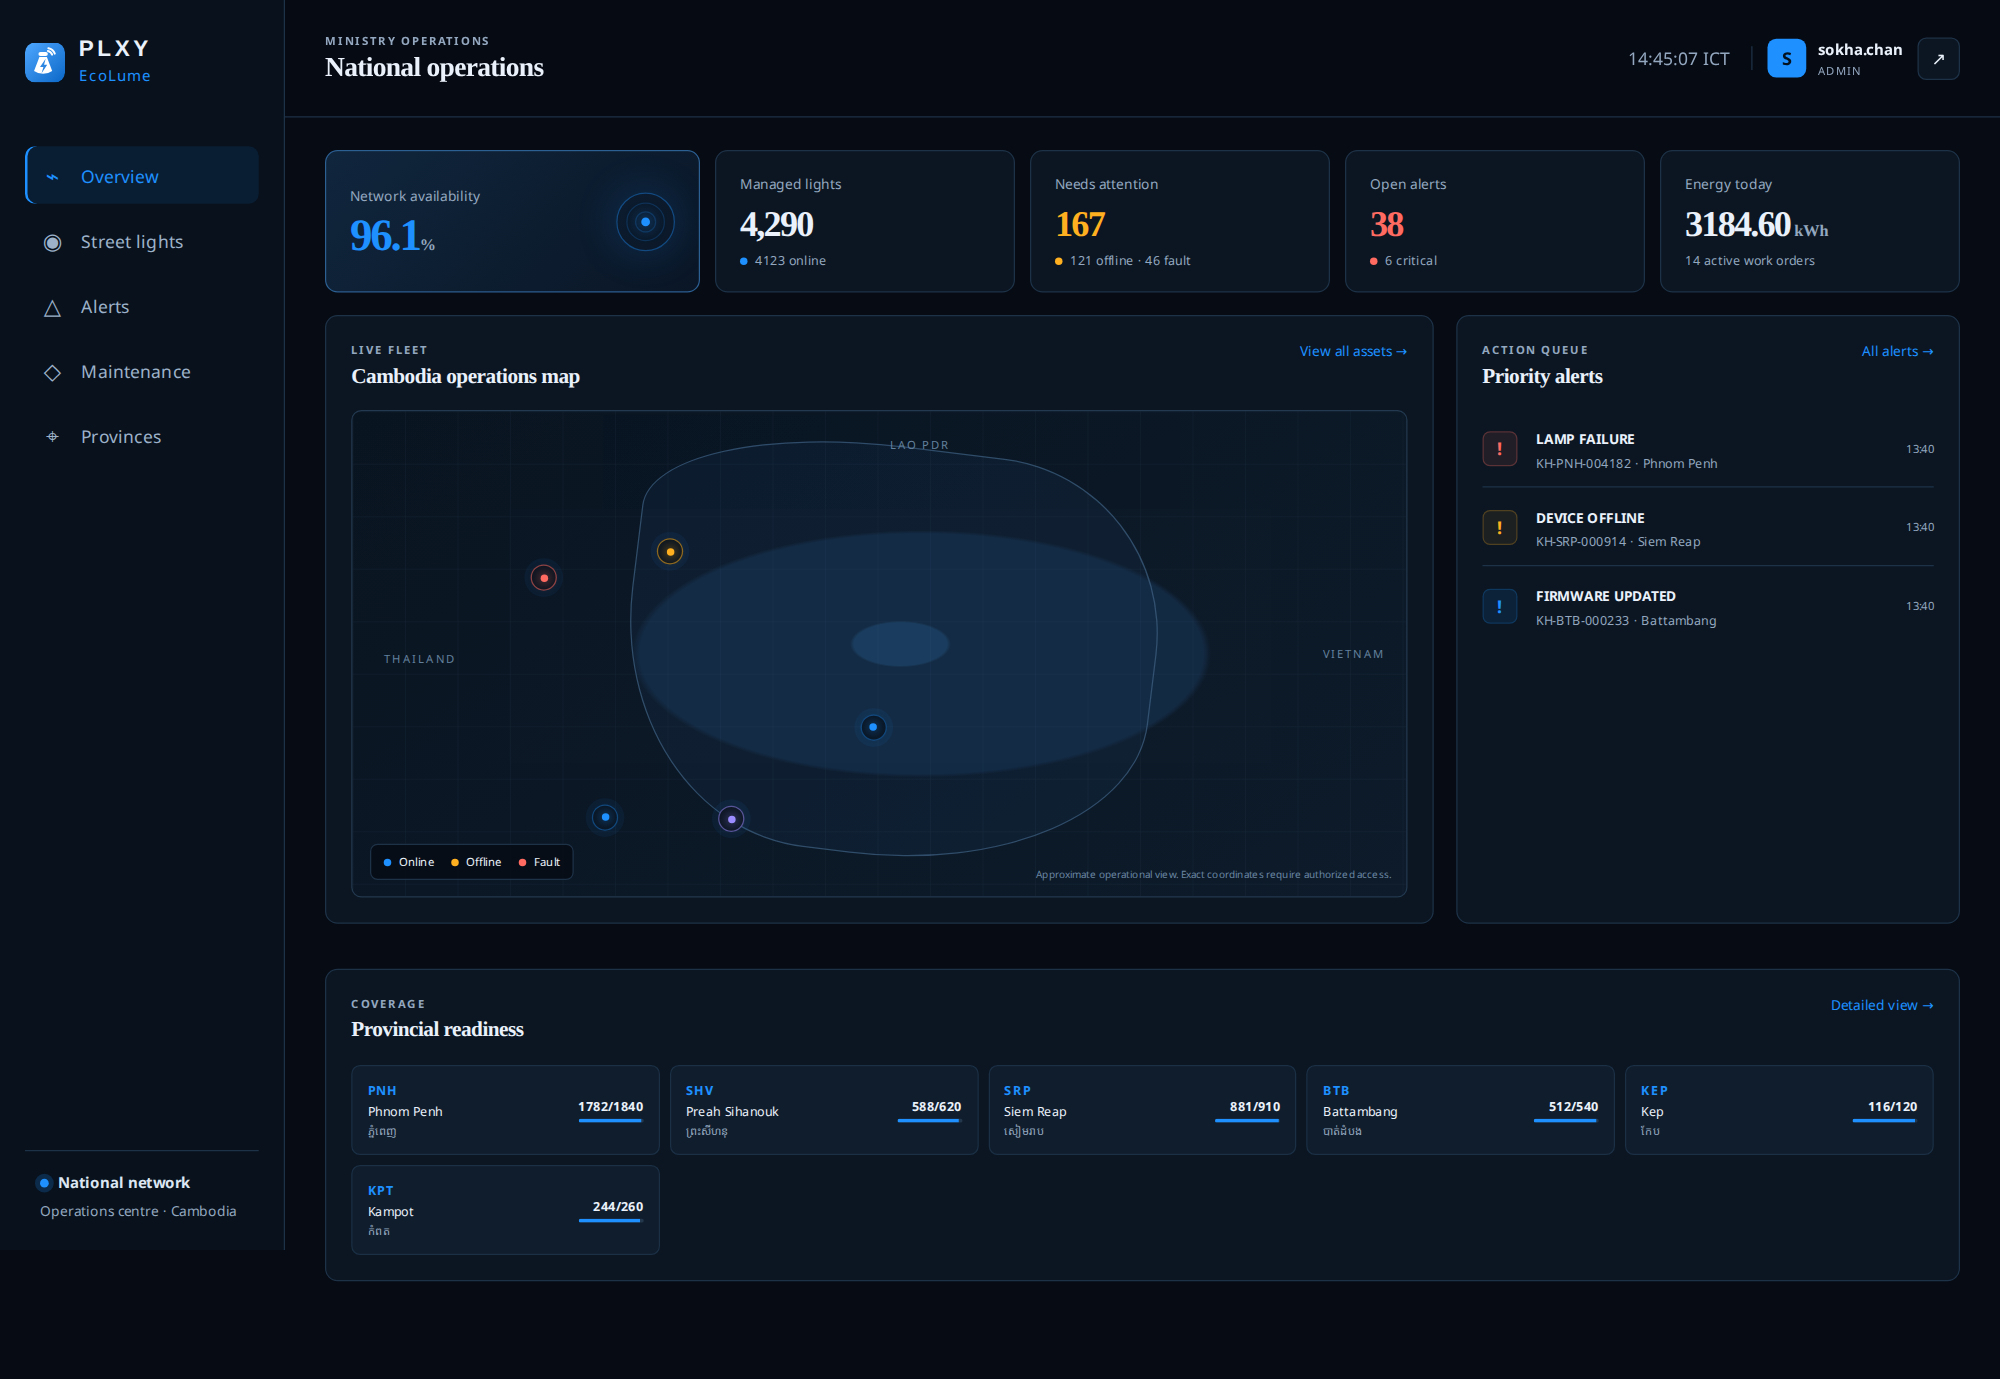
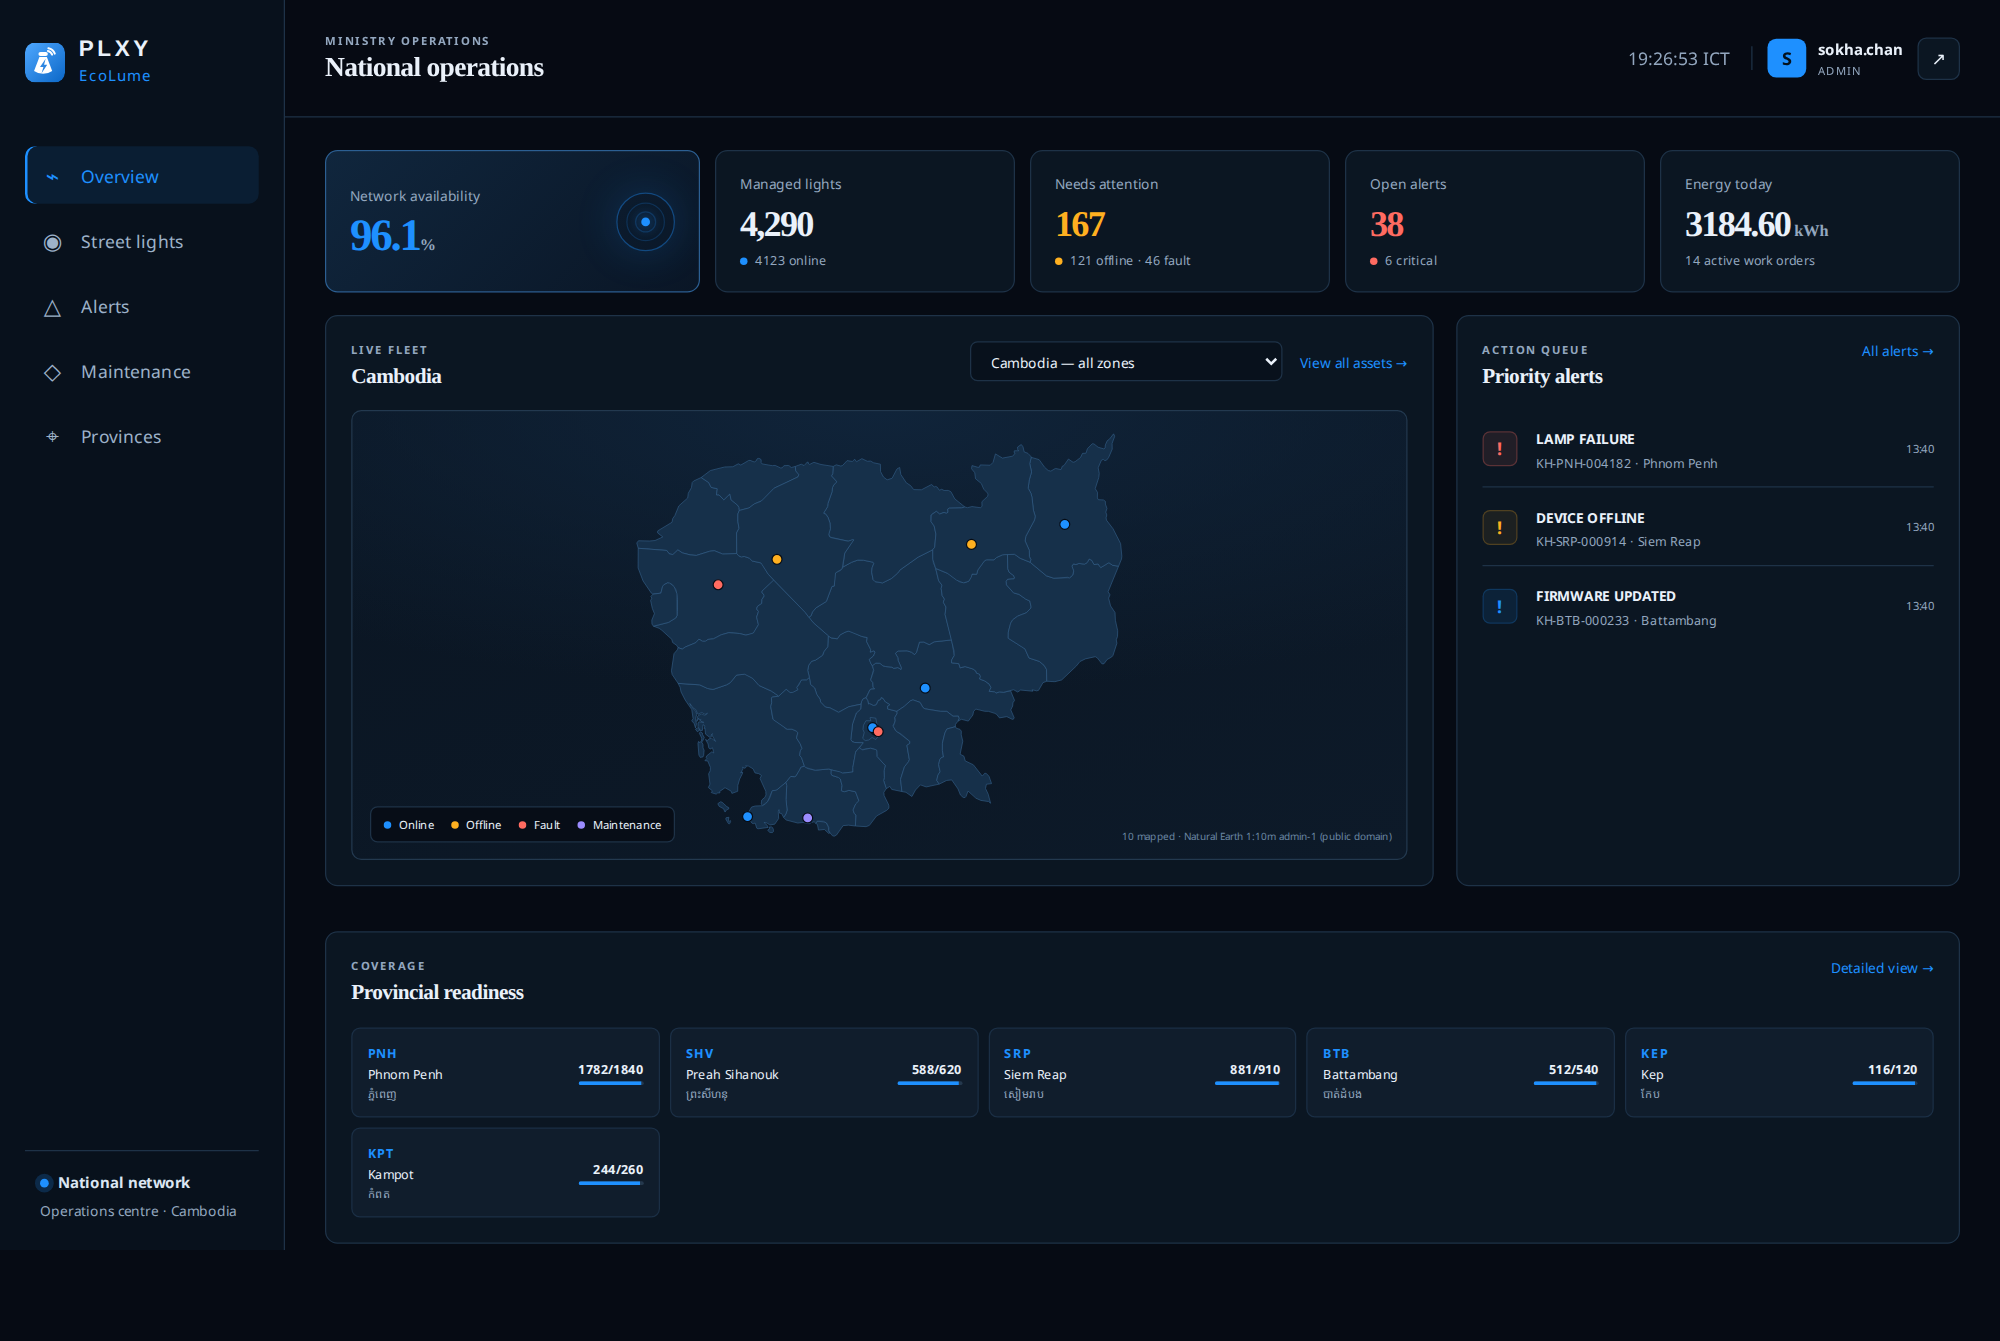
Stop the site rewriting resolved links into broken GitHub blob URLs
Every markdown image and cross-document link in the documentation site was
being rewritten twice. The renderer resolved "docs/assets/cover.webp" to
"/assets/docs/cover.webp", then the raw-HTML pass fed that result back
through the same function, failed to match it against a repository path,
and sent it to the GitHub fallback. So the README's cover photo and
dashboard screenshot pointed at github.com/.../blob/... — an HTML page,
which renders as nothing — and links like "docs/API.md" left the site
entirely.

verify.mjs missed it because it skips absolute URLs, and a broken link had
become one. It now rejects an <img> whose src is a GitHub page, and any
blob link to a path the site serves itself.

rewriteUrl returns site-absolute URLs unchanged, which makes it idempotent
and lets the raw-HTML pass run safely over the renderer's own output.

Also refreshes the dashboard screenshot, which still showed the decorative
map, and describes the real operations map in the README.

Claude-Session: https://claude.ai/code/session_01JGz18KQ7uF125gT1oA8uZh

diff --git a/README.md b/README.md
@@ -38,6 +38,7 @@ Option 2 requires a new LoRaWAN firmware variant and EcoLume adapter; it is docu
 - `docs/` — architecture, [hardware equipment and picture guide](docs/HARDWARE.md), security, deployment, API, and field rollout guidance.
 - `docs-site/` — the documentation website and browser-based ESP32 installer, published to GitHub Pages.
 - `brand/` — the EcoLume mark, app icons, favicons, and colour tokens shared by the portal and the site.
+- `tools/` — development-only generators, including the boundary dataset behind the operations map.
 
 ## Core capabilities
 
@@ -45,6 +46,7 @@ Option 2 requires a new LoRaWAN firmware variant and EcoLume adapter; it is docu
 |---|---|
 | Fleet | Asset registry, province/city grouping, GPS, device and firmware status |
 | Operations | Live status, brightness control, desired-vs-actual state, last contact |
+| Mapping | Real province boundaries, country or single-zone view, assets plotted from GNSS |
 | Telemetry | Voltage, current, power, accumulated energy, temperature, RSSI, GNSS |
 | Alerts | Offline, lamp failure, abnormal voltage, over-temperature, tamper |
 | Maintenance | Work orders, priority, assignment, status, due date, alert linkage |
@@ -56,6 +58,15 @@ Option 2 requires a new LoRaWAN firmware variant and EcoLume adapter; it is docu
 ![PLXY EcoLume national operations dashboard](docs/assets/admin-dashboard.png)
 
 The responsive admin portal provides national fleet availability, live asset locations, electrical status, energy usage, priority alerts, provincial readiness, remote commands, and maintenance workflows. This screenshot was rendered from the actual dashboard code with representative demonstration data—no production credentials or ministry asset locations are included.
+
+The live-fleet map draws real province boundaries and plots each asset from its
+reported GNSS position. Operators switch between the whole country and a single
+province from the panel, or click a province to focus it; `MAP_REGION` sets the
+default view. Boundary data is bundled with the application rather than fetched
+from a tile service, so an operations centre without internet access keeps
+working and asset positions are never disclosed to an outside host by the act of
+drawing them. See [Operations map](docs/ARCHITECTURE.md#operations-map) for the
+boundary-data caveats that must be resolved before ministry acceptance.
 
 ## Current implemented architecture
 
@@ -125,8 +136,8 @@ pio run --target upload    # flash over USB
 pio device monitor         # provisioning console at 115200 baud
 ```
 
-Or install a published release straight from
-[the browser](https://sengphirum.github.io/PLXY_EcoLume/install/) — connect an ESP32 over
+Or install the latest [published release](https://github.com/SengPhirum/PLXY_EcoLume/releases)
+straight from [the browser](https://sengphirum.github.io/PLXY_EcoLume/install/) — connect an ESP32 over
 USB in Chrome, Edge, or Opera on desktop and click **Install**. A web-installed controller
 carries no credentials; give it its identity on the serial console with
 `set device.id …`, `set device.token …`, `set apn …`, then `reboot`. See the
